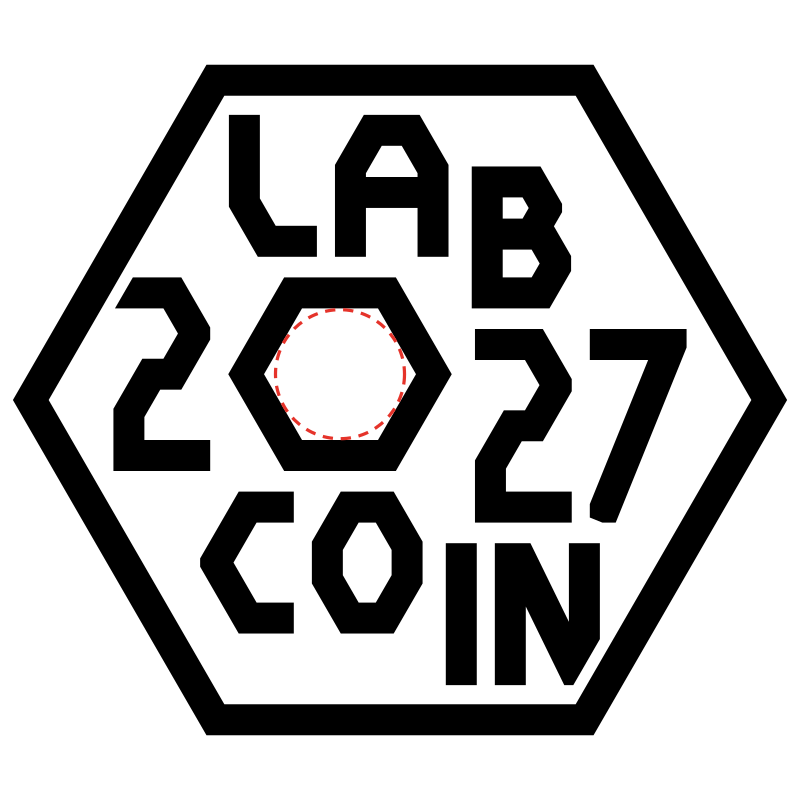
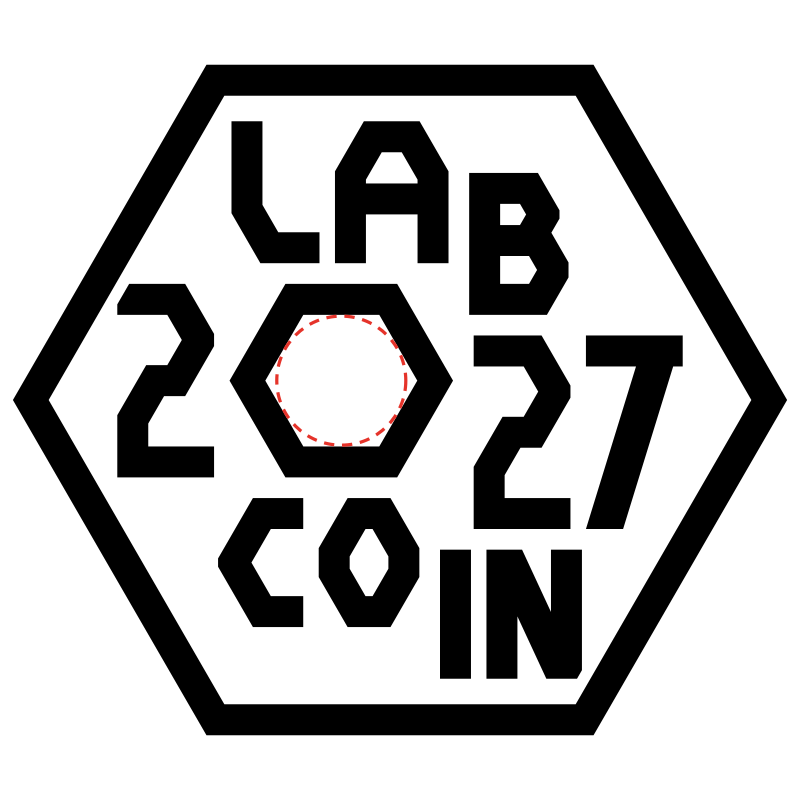
LabCoin 2027 front v2: clean 7 leg, keep step version off the rim
The 7 leg is now a solid stroke with flat ends instead of a capped
line. Version B uses a 10 mm COIN row and 1.2 mm spacing so the N no
longer runs into the rim. The script reports how much the rim cuts.

Claude-Session: https://claude.ai/code/session_01H3rmKmKmvrhi3YyZGrkwWK

diff --git a/labcoin-2027/front_v2.py b/labcoin-2027/front_v2.py
@@ -103,8 +103,9 @@ def glyph(ch, w, h, c):
         g = S([(x0, y0), (x1 - c2 * K, y0), (x1, y0 + c2), (x1, ym - c2),
                (x1 - c2 * K, ym), (x0 + c2 * K, ym), (x0, ym + c2), (x0, y1), (x1, y1)])
     elif ch == '7':
-        xb = max(x0, x1 - (y1 - y0) * K)              # кракът е точно на 60°
-        g = S([(x0, y0), (x1, y0), (xb, y1)])
+        xb = max(0.0, w - T * 1.2 - h * K)             # кракът е 60°, ако има място; краищата са равни
+        leg = Polygon([(w - T * 1.2, 0), (w, 0), (xb + T * 1.2, h), (xb, h)])
+        g = U(box(0, 0, w, T), leg)
     else:
         raise ValueError(ch)
     return g.intersection(box(0, 0, w, h))
@@ -173,12 +174,14 @@ def compose(H2=15.0, H1=11.0, H3=11.0, c=3.0, track=1.4, row_gap=1.6, step=0.0, 
     art = U(lab, year, coin)
     b = art.bounds
     dx, dy = -(b[0] + b[2]) / 2, -(b[1] + b[3]) / 2
-    return mv(art, dx, dy).intersection(FIELD), mv(pocket, dx, dy)
+    art = mv(art, dx, dy)
+    compose.clipped = art.difference(FIELD).area
+    return art.intersection(FIELD), mv(pocket, dx, dy)
 
 
 VARIANTS = {
     'A-clean': dict(),                                      # три прави реда
-    'B-step':  dict(step=4.0, slide=False, fault=0.4),      # десният блок слиза надолу
+    'B-step':  dict(step=4.0, slide=False, fault=0.4, H3=10.0, track=1.2),  # десният блок слиза надолу
     'C-slide': dict(step=4.0),                              # десният блок се плъзга по 60° ръба
 }
 
@@ -223,6 +226,7 @@ def main():
     for name, kw in VARIANTS.items():
         art, pocket = compose(**kw)
         report(name, art)
+        print(f'{"":10s} изрязано от ръба: {compose.clipped:.2f} мм²')
         files = {f'labcoin-2027-front-{name}.svg': svg(art, pocket, sticker=False),
                  f'labcoin-2027-front-{name}-no-background.svg': svg(art, pocket, bg=False, sticker=False)}
         for fn, s in files.items():
